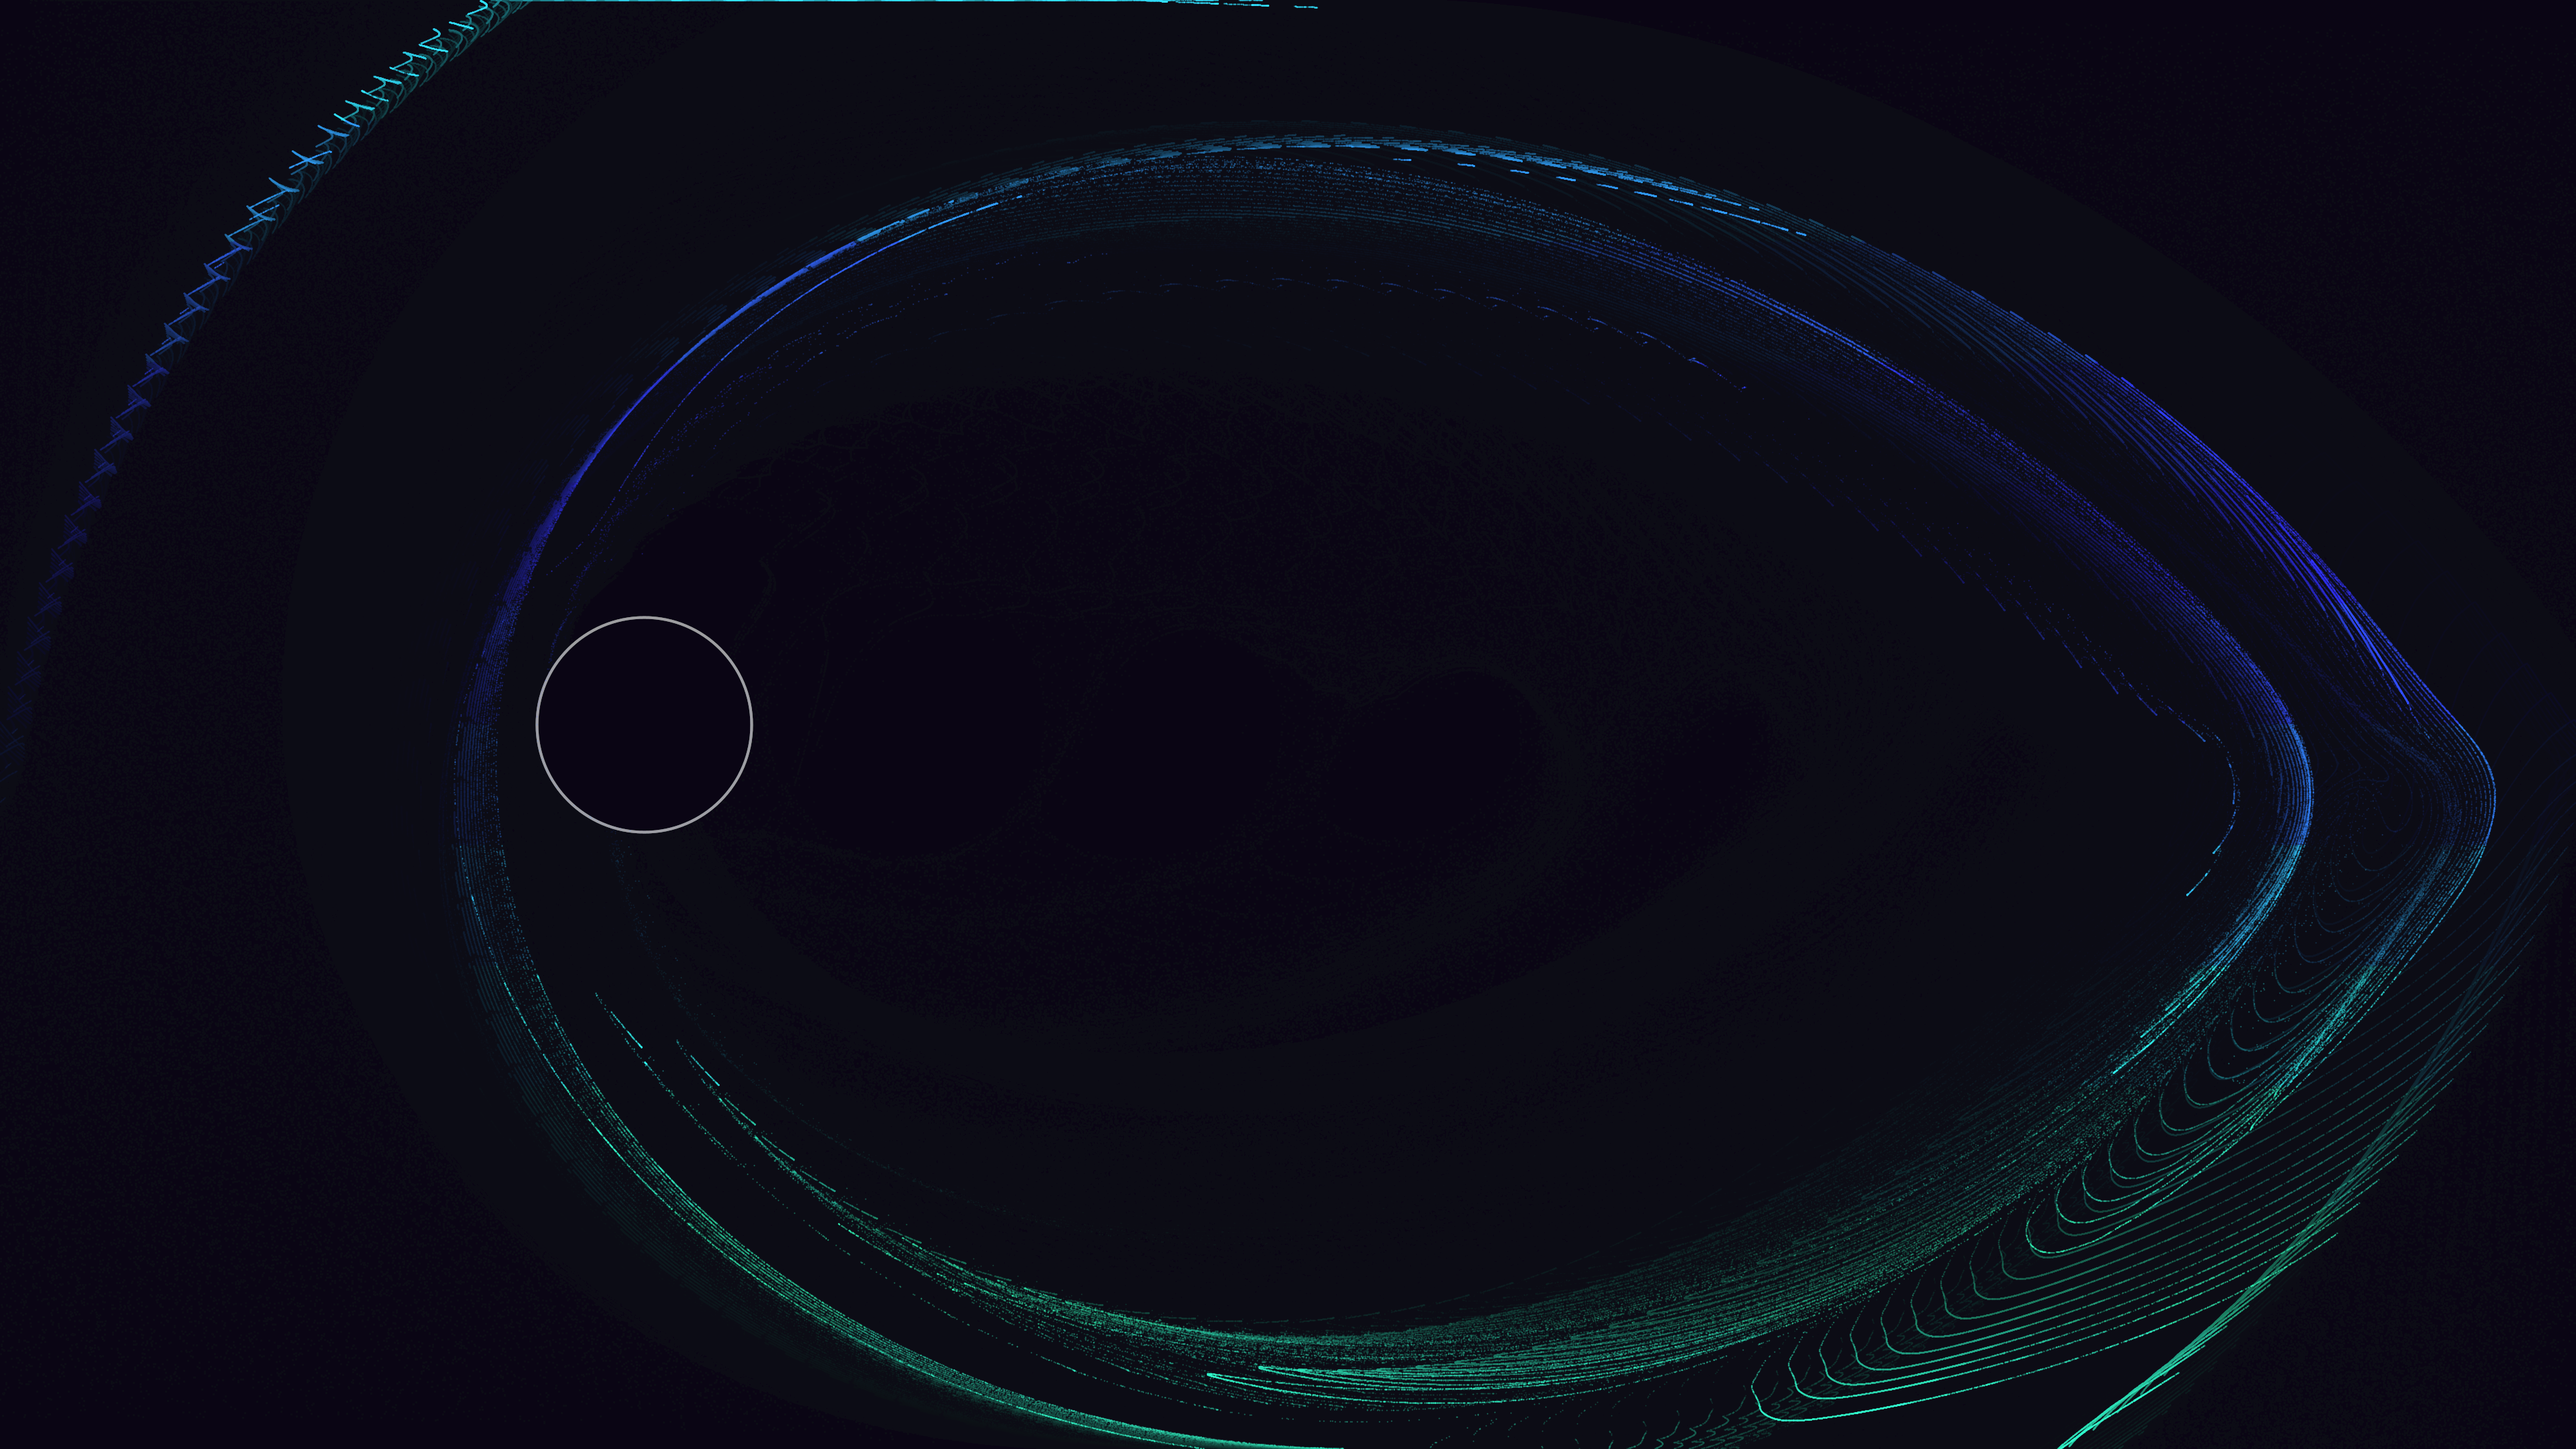
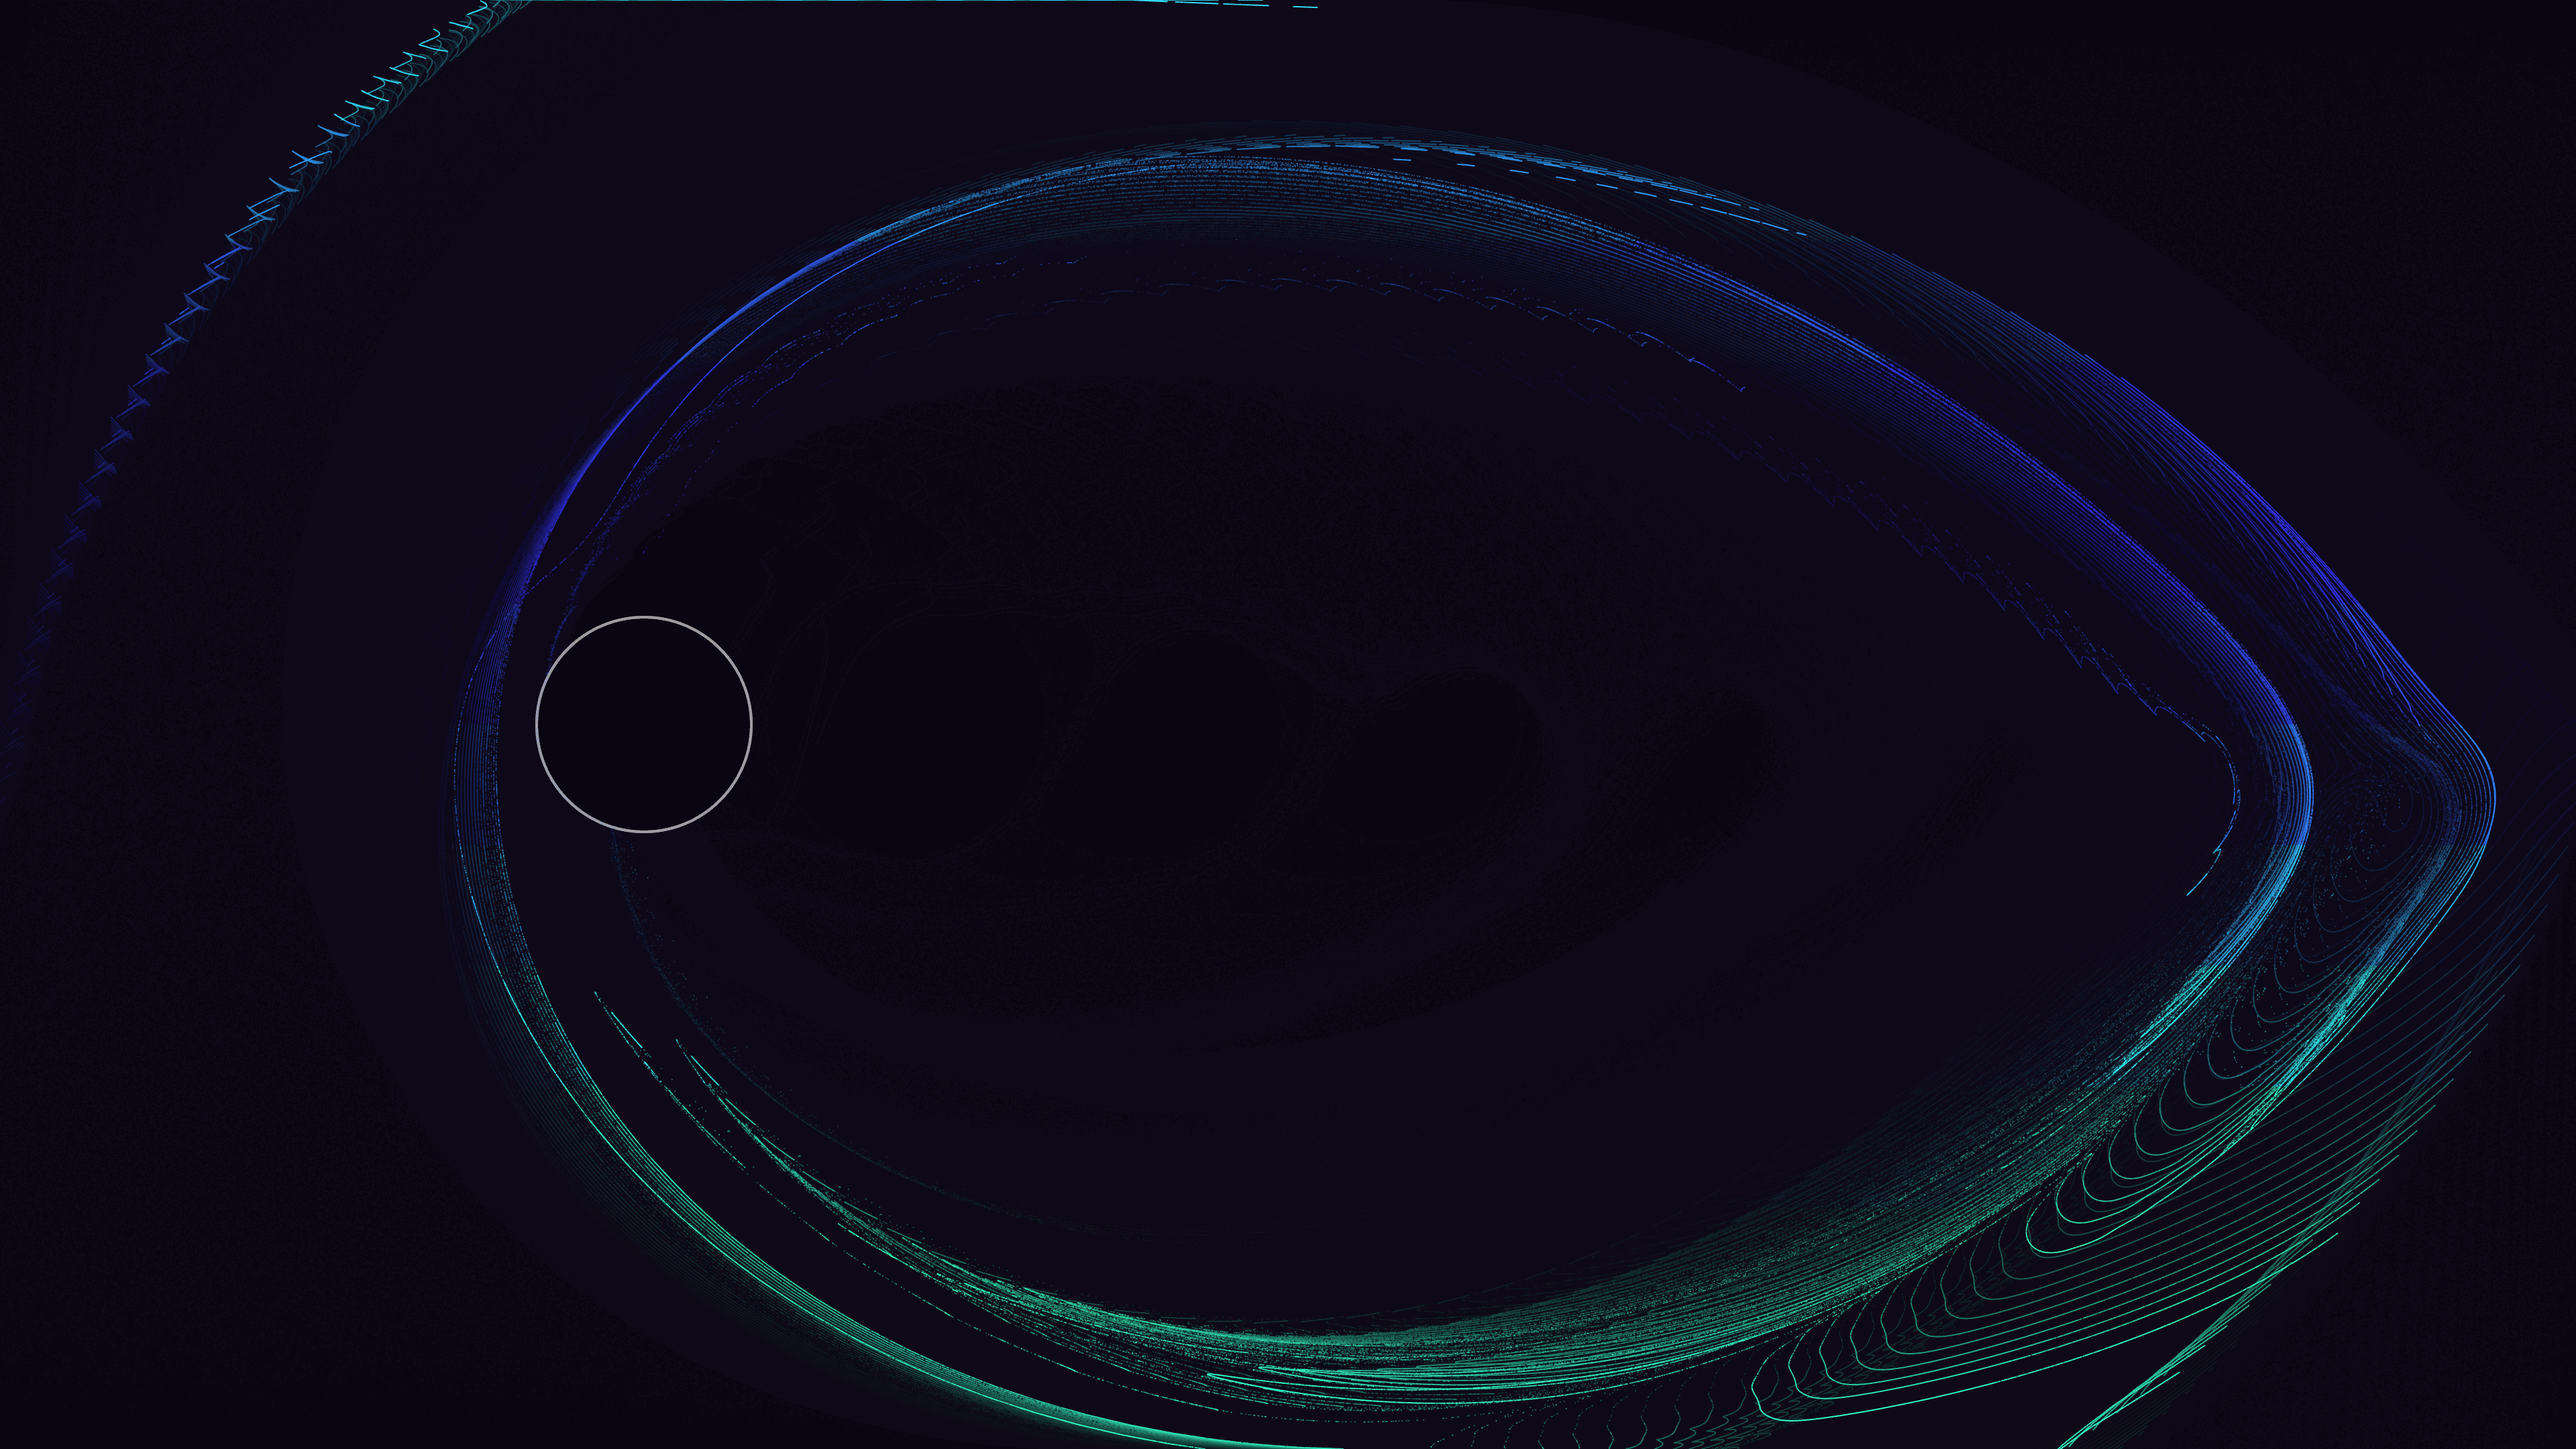
feat: upgrade dirac_fluid_turbulence to 4K resolution and render output

diff --git a/sketch/dirac_fluid_turbulence/main.py b/sketch/dirac_fluid_turbulence/main.py
@@ -18,11 +18,12 @@ DURATION_SEC = 10
 FPS = 60
 TOTAL_FRAMES = DURATION_SEC * FPS
 PREVIEW_FILENAME = f"{WORK_NAME}_p1.png"
-PREVIEW_SIZE, OUTPUT_SIZE, SIZE = get_sizes()
+PREVIEW_SIZE, OUTPUT_SIZE, _ = get_sizes()
+SIZE = OUTPUT_SIZE  # Force 4K resolution (3840x2160)
 
 # Simulation Parameters
-NUM_PARTICLES = 40000
-V_BG = 4.0
+NUM_PARTICLES = 100000  # Scaled up for ultra-lush 4K density
+V_BG = 8.0  # Scaled background speed for 4K flow rate
 
 class DiracFluidSimulation:
     def __init__(self, n_particles):
@@ -32,9 +33,9 @@ class DiracFluidSimulation:
         self.pos[:, 1] *= SIZE[1]
         self.phase = np.random.rand(n_particles).astype(np.float32) * np.pi * 2
         
-        # Obstacle
+        # Obstacle (scaled size for 4K)
         self.obs_pos = np.array([SIZE[0]*0.25, SIZE[1]*0.5], dtype=np.float32)
-        self.obs_r = 80.0
+        self.obs_r = 160.0
 
     def update(self, t):
         # Background flow
@@ -50,18 +51,18 @@ class DiracFluidSimulation:
             if v_t < 0: continue
             
             # Vortex position drifts with flow
-            # Sign alternates
+            # Sign alternates (scaled parameters for 4K)
             sign = 1 if i % 2 == 0 else -1
             vx = self.obs_pos[0] + v_t * V_BG * 0.8
-            vy = self.obs_pos[1] + sign * 60 * np.sin(v_t * 0.05)
+            vy = self.obs_pos[1] + sign * 120 * np.sin(v_t * 0.05)
             
             # Influence
             dx = self.pos[:, 0] - vx
             dy = self.pos[:, 1] - vy
-            d2 = dx*dx + dy*dy + 500 # Softening
+            d2 = dx*dx + dy*dy + 2000 # Softening (scaled for 4K)
             
             # Induced velocity (rotational)
-            strength = 8000.0 * np.exp(-v_t * 0.005) # Fades over time
+            strength = 32000.0 * np.exp(-v_t * 0.005) # Fades over time (scaled for 4K)
             self.pos[:, 0] -= strength * dy / d2
             self.pos[:, 1] += strength * dx / d2
             
@@ -84,14 +85,23 @@ class DiracFluidSimulation:
 
 sim = DiracFluidSimulation(NUM_PARTICLES)
 
+import shutil
+
 def setup():
-    py5.size(*SIZE)
+    py5.size(*SIZE, py5.P2D)  # Use GPU accelerated P2D
+    py5.pixel_density(1)  # Capping at 1x density prevents Retina-doubling lag on 4K renders
     py5.smooth(8)
+    if FRAMES_DIR.exists():
+        shutil.rmtree(FRAMES_DIR)
     FRAMES_DIR.mkdir(exist_ok=True)
     py5.background(10, 5, 20)
 
 def draw():
     t = py5.frame_count
+    
+    # Progress logs to prevent command timeouts
+    if t % 60 == 0:
+        print(f"[Render Progress] Frame {t}/{TOTAL_FRAMES} ({t/TOTAL_FRAMES*100:.1f}%)")
     
     # Motion Blur effect
     py5.fill(10, 5, 20, 30)
@@ -103,7 +113,7 @@ def draw():
     
     # Color based on y position and velocity
     # Plasma Blue to Electric Gold
-    py5.stroke_weight(1.0)
+    py5.stroke_weight(2.0)  # Balanced for 4K
     
     # We'll use HSB for the gradient
     py5.color_mode(py5.HSB, 360, 100, 100, 100)
@@ -127,7 +137,7 @@ def draw():
     # Draw Obstacle
     py5.no_fill()
     py5.stroke(255, 255, 255, 40)
-    py5.stroke_weight(2)
+    py5.stroke_weight(4.0)  # Balanced for 4K
     py5.circle(sim.obs_pos[0], sim.obs_pos[1], sim.obs_r * 2)
 
     # Save frames and handle exit
@@ -135,14 +145,25 @@ def draw():
 
     if py5.frame_count >= TOTAL_FRAMES:
         py5.exit_sketch()
+        
+        print(f"[Render FFmpeg] Compiling {TOTAL_FRAMES} frames into 4K video...")
         subprocess.run([
             "ffmpeg", "-y", "-r", str(FPS),
             "-i", str(FRAMES_DIR / "frame-%04d.png"),
             "-vcodec", "libx264", "-pix_fmt", "yuv420p",
-            "-crf", "28",
+            "-crf", "22",
             str(SKETCH_DIR / f"{WORK_NAME}.mp4"),
         ], check=True)
+        
+        # Mirror output
+        subprocess.run(["cp", str(SKETCH_DIR / f"{WORK_NAME}.mp4"), str(SKETCH_DIR / "output.mp4")], check=True)
+        
         mid = str(FRAMES_DIR / f"frame-{TOTAL_FRAMES // 2:04d}.png")
         subprocess.run(["cp", mid, str(SKETCH_DIR / PREVIEW_FILENAME)], check=True)
+        
+        # Clean up temporary frames
+        if FRAMES_DIR.exists():
+            shutil.rmtree(FRAMES_DIR)
+            print("[Render Cleanup] Temporary frames directory successfully removed.")
 
 py5.run_sketch()

diff --git a/.agents/FEEDBACK.md b/.agents/FEEDBACK.md
@@ -141,12 +141,12 @@ The Artist reads this file before starting a new sketch to understand preference
 
 ## dirac_fluid_turbulence
 
-- **Rating**: 
+- **Rating**: OK.
 - **Comment**: 
 
 ## anderson_localization_mesh
 
-- **Rating**: 
+- **Rating**: OK.
 - **Comment**: 
 
 ## weyl_semimetal_fermi_arcs
